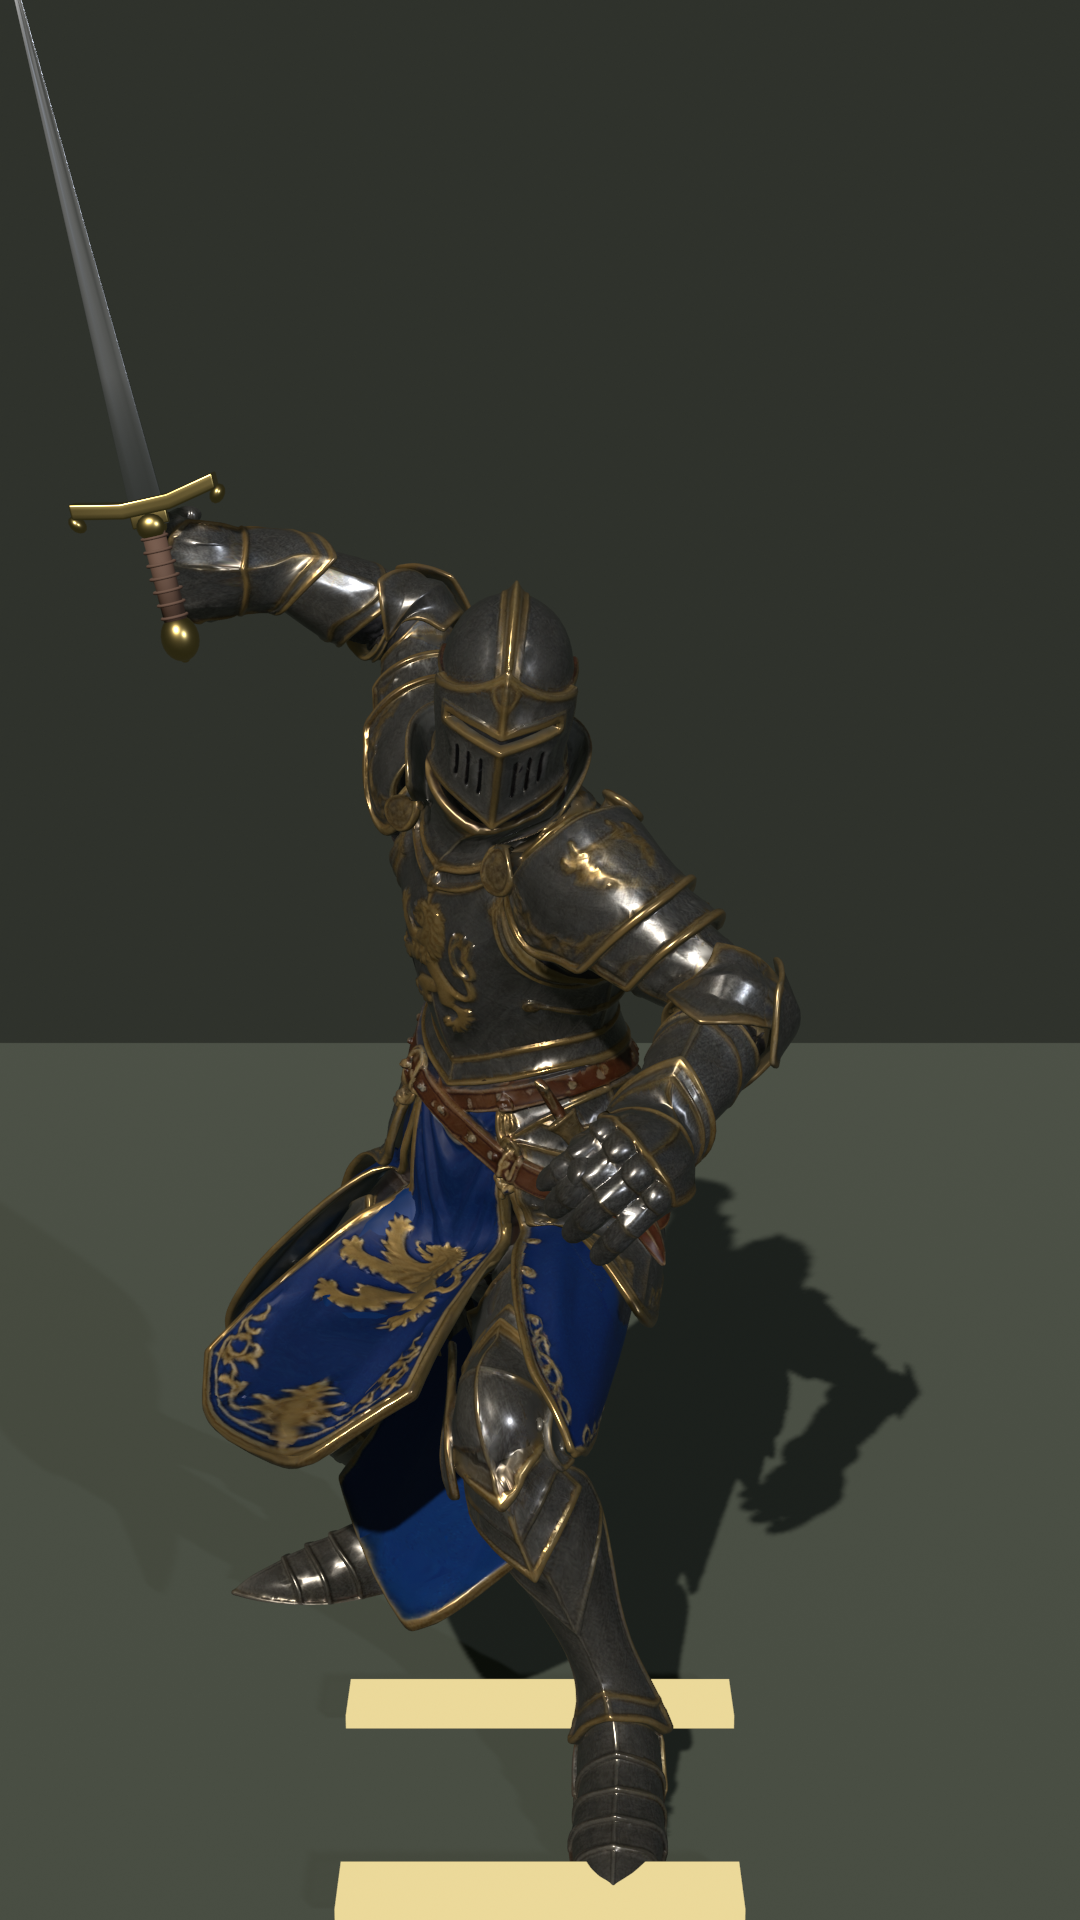
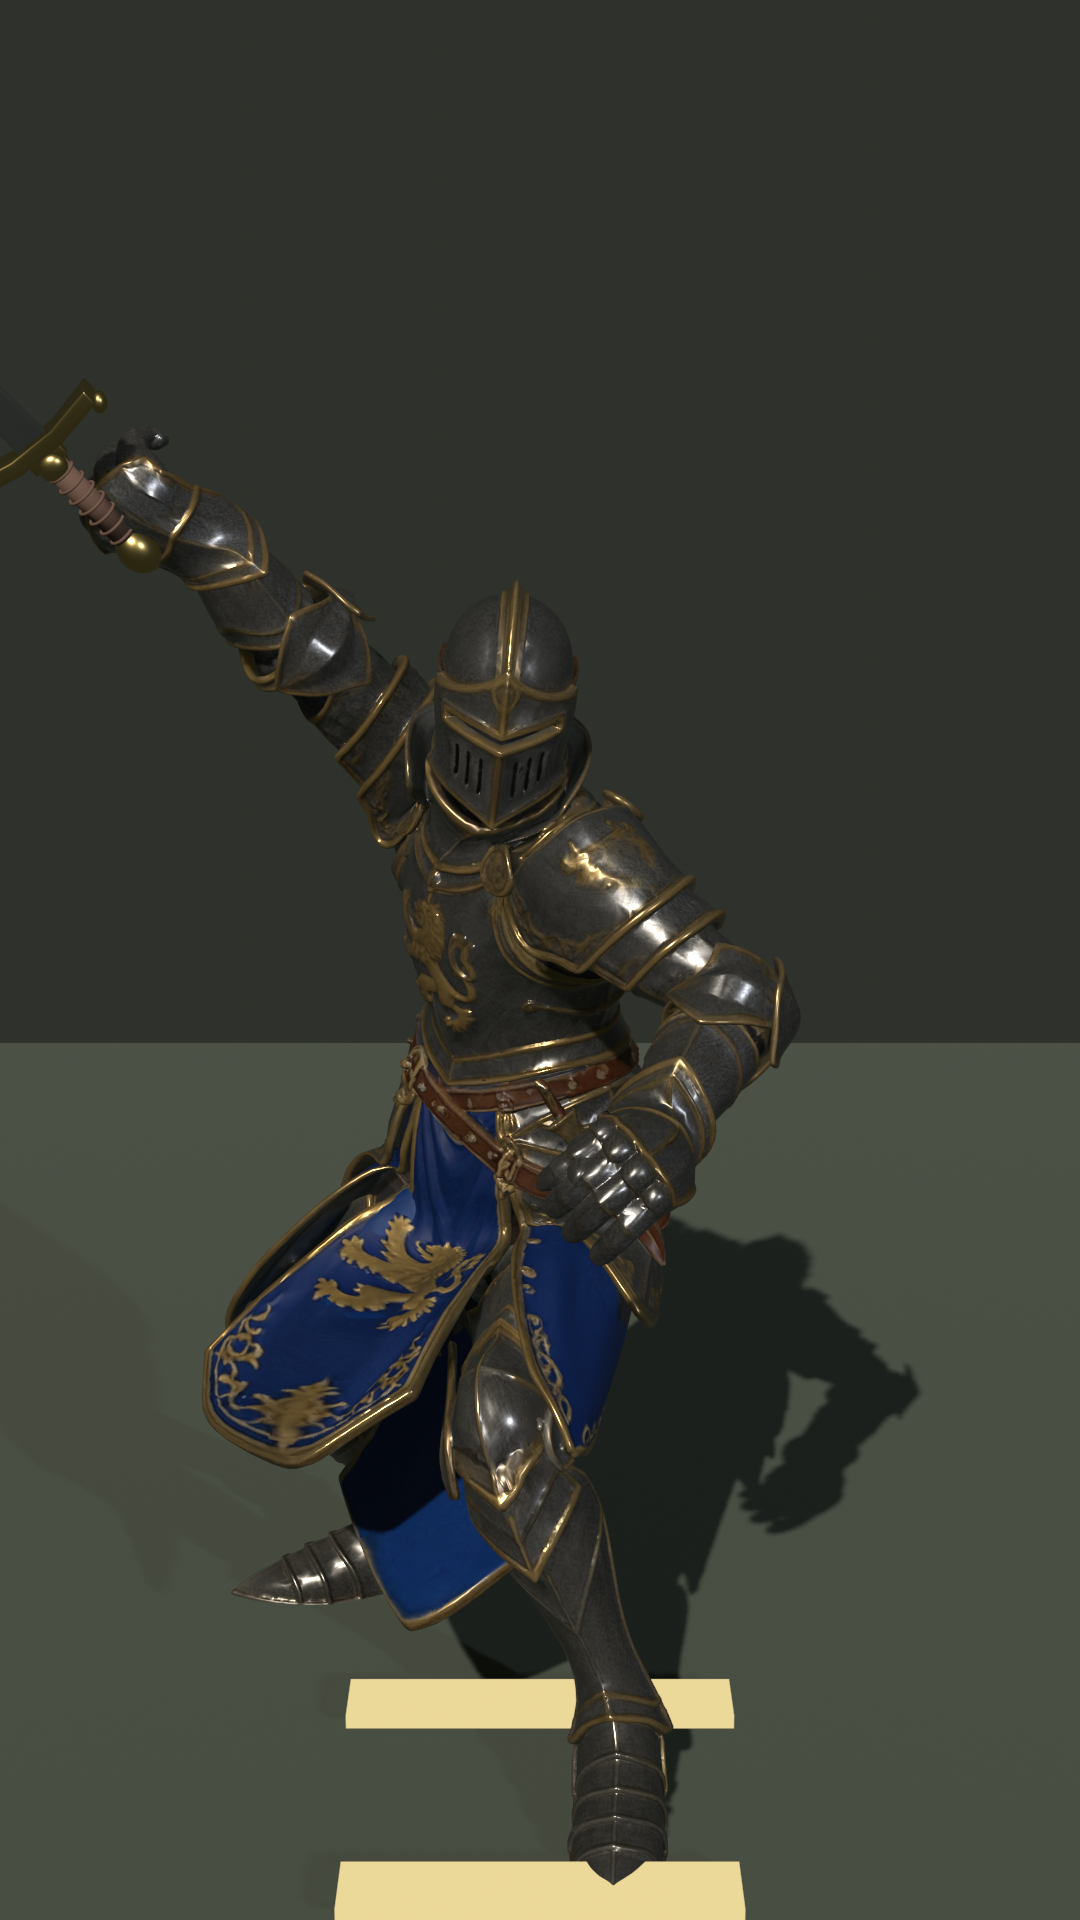
Recapture max-reach rematch stills UR, front, and LL.
Elbow unfolds (79°→0°). Tip-radial stays ~1.5–2.0 m. Frame the
UR key so the blade stays on FOV 42; front key has enough up that
rear Play-cam shows the thrust. RH only. HOLD merge.

Changed region(s): [[0.0, 0.0312, 0.4278, 0.4375], [0.6111, 0.5938, 0.6722, 0.6562], [0.0, 0.0, 0.0306, 0.0312]]

diff --git a/tests/Survival.Domain.Tests/SirAldric3DMotionTests.cs b/tests/Survival.Domain.Tests/SirAldric3DMotionTests.cs
@@ -395,7 +395,7 @@ public sealed class SirAldric3DMotionTests
         Assert.Equal(1.12f, SirAldric3DMotion.PlayCamLookY);
         Assert.Equal(42f, SirAldric3DMotion.PlayCamFovDegrees);
         Assert.Equal(180f, SirAldric3DMotion.MixamoImportRearYawDegrees);
-        Assert.Equal(0.85f, SirAldric3DMotion.AttackSlashUrRight);
+        Assert.Equal(0.65f, SirAldric3DMotion.AttackSlashUrRight);
         Assert.Equal(-0.85f, SirAldric3DMotion.AttackSlashLlRight);
         Assert.Equal(0.40f, SirAldric3DMotion.AttackSlashFrontU);
         Assert.Equal(0.75f, SirAldric3DMotion.AttackSlashLlU);
@@ -404,9 +404,9 @@ public sealed class SirAldric3DMotionTests
         Assert.Equal(1f, SirAldric3DMotion.AttackWindupWeight(0.72f), 3);
         Assert.Equal(1f, SirAldric3DMotion.AttackWindupWeight(1f), 3);
         SirAldric3DMotion.AttackSlashReach(0f, out var urX, out var urY, out var urZ);
-        Assert.True(urX > 0.45f && urY > 0.35f && urZ > 0f);
+        Assert.True(urX > 0.40f && urY > 0.40f && urZ > 0f);
         SirAldric3DMotion.AttackSlashReach(SirAldric3DMotion.AttackSlashFrontU, out var fX, out var fY, out var fZ);
-        Assert.True(fZ > 0.85f && Math.Abs(fX) < 0.15f);
+        Assert.True(fZ > 0.75f && fX > 0f && fY > 0.25f);
         SirAldric3DMotion.AttackSlashReach(1f, out var llX, out var llY, out var llZ);
         Assert.True(llX < -0.45f && llY < 0f);
         _ = urZ;
@@ -428,6 +428,7 @@ public sealed class SirAldric3DMotionTests
         Assert.True(new FileInfo(Path.Combine(dir, "sir_aldric_pilot_front_walk_playcam.png")).Length > 50_000);
         Assert.True(new FileInfo(Path.Combine(dir, "sir_aldric_pilot_34_walk_playcam.png")).Length > 50_000);
         Assert.True(new FileInfo(Path.Combine(dir, "sir_aldric_pilot_rear_strike_start_playcam.png")).Length > 50_000);
+        Assert.True(new FileInfo(Path.Combine(dir, "sir_aldric_pilot_rear_strike_mid_playcam.png")).Length > 50_000);
         Assert.True(new FileInfo(Path.Combine(dir, "sir_aldric_pilot_rear_strike_playcam.png")).Length > 50_000);
         Assert.True(new FileInfo(Path.Combine(dir, "sir_aldric_pilot_front_strike_playcam.png")).Length > 50_000);
         Assert.True(new FileInfo(Path.Combine(dir, "sir_aldric_pilot_34_strike_playcam.png")).Length > 50_000);

diff --git a/Assets/Survival/Runtime/Heroes/SirAldric3DMotion.cs b/Assets/Survival/Runtime/Heroes/SirAldric3DMotion.cs
@@ -40,10 +40,11 @@ namespace Survival.Domain.Heroes
         /// collapsed tip that only opened late).
         /// Unity after yaw 180: +X = character/camera-right, +Y = up, +Z = front/TOP.
         /// </summary>
-        public const float AttackSlashUrRight = 0.85f;
-        public const float AttackSlashUrUp = 0.70f;
-        public const float AttackSlashUrFront = 0.25f;
-        public const float AttackSlashFrontUp = 0.18f;
+        public const float AttackSlashUrRight = 0.65f;
+        public const float AttackSlashUrUp = 0.78f;
+        public const float AttackSlashUrFront = 0.42f;
+        public const float AttackSlashFrontRight = 0.18f;
+        public const float AttackSlashFrontUp = 0.48f;
         public const float AttackSlashFrontZ = 1.00f;
         public const float AttackSlashLlRight = -0.85f;
         public const float AttackSlashLlUp = -0.40f;
@@ -407,14 +408,14 @@ namespace Survival.Domain.Heroes
                 ax = AttackSlashUrRight;
                 ay = AttackSlashUrUp;
                 az = AttackSlashUrFront;
-                bx = 0f;
+                bx = AttackSlashFrontRight;
                 by = AttackSlashFrontUp;
                 bz = AttackSlashFrontZ;
             }
             else if (u <= AttackSlashLlU)
             {
                 t = Smooth01((u - AttackSlashFrontU) / (AttackSlashLlU - AttackSlashFrontU));
-                ax = 0f;
+                ax = AttackSlashFrontRight;
                 ay = AttackSlashFrontUp;
                 az = AttackSlashFrontZ;
                 bx = AttackSlashLlRight;

diff --git a/scripts/blender/render_aldric_pilot_playcam.py b/scripts/blender/render_aldric_pilot_playcam.py
@@ -37,10 +37,11 @@ CAM_34 = ((1.82, 1.92, -2.38), (0.0, 1.12, 0.15))
 CAM_FOV = 42.0
 
 # Match Unity ApplyAttackWindupLift (max-reach RH arc, elbow unfold).
-SLASH_UR_RIGHT = 0.85
-SLASH_UR_UP = 0.70
-SLASH_UR_FRONT = 0.25
-SLASH_FRONT_UP = 0.18
+SLASH_UR_RIGHT = 0.65
+SLASH_UR_UP = 0.78
+SLASH_UR_FRONT = 0.42
+SLASH_FRONT_RIGHT = 0.18
+SLASH_FRONT_UP = 0.48
 SLASH_FRONT_Z = 1.00
 SLASH_LL_RIGHT = -0.85
 SLASH_LL_UP = -0.40
@@ -424,10 +425,10 @@ def attack_slash_reach_unity(u):
     if u <= SLASH_FRONT_U:
         t = sm(u / SLASH_FRONT_U)
         a = (SLASH_UR_RIGHT, SLASH_UR_UP, SLASH_UR_FRONT)
-        b = (0.0, SLASH_FRONT_UP, SLASH_FRONT_Z)
+        b = (SLASH_FRONT_RIGHT, SLASH_FRONT_UP, SLASH_FRONT_Z)
     elif u <= SLASH_LL_U:
         t = sm((u - SLASH_FRONT_U) / (SLASH_LL_U - SLASH_FRONT_U))
-        a = (0.0, SLASH_FRONT_UP, SLASH_FRONT_Z)
+        a = (SLASH_FRONT_RIGHT, SLASH_FRONT_UP, SLASH_FRONT_Z)
         b = (SLASH_LL_RIGHT, SLASH_LL_UP, SLASH_LL_FRONT)
     else:
         return blender_from_unity(SLASH_LL_RIGHT, SLASH_LL_UP, SLASH_LL_FRONT)
